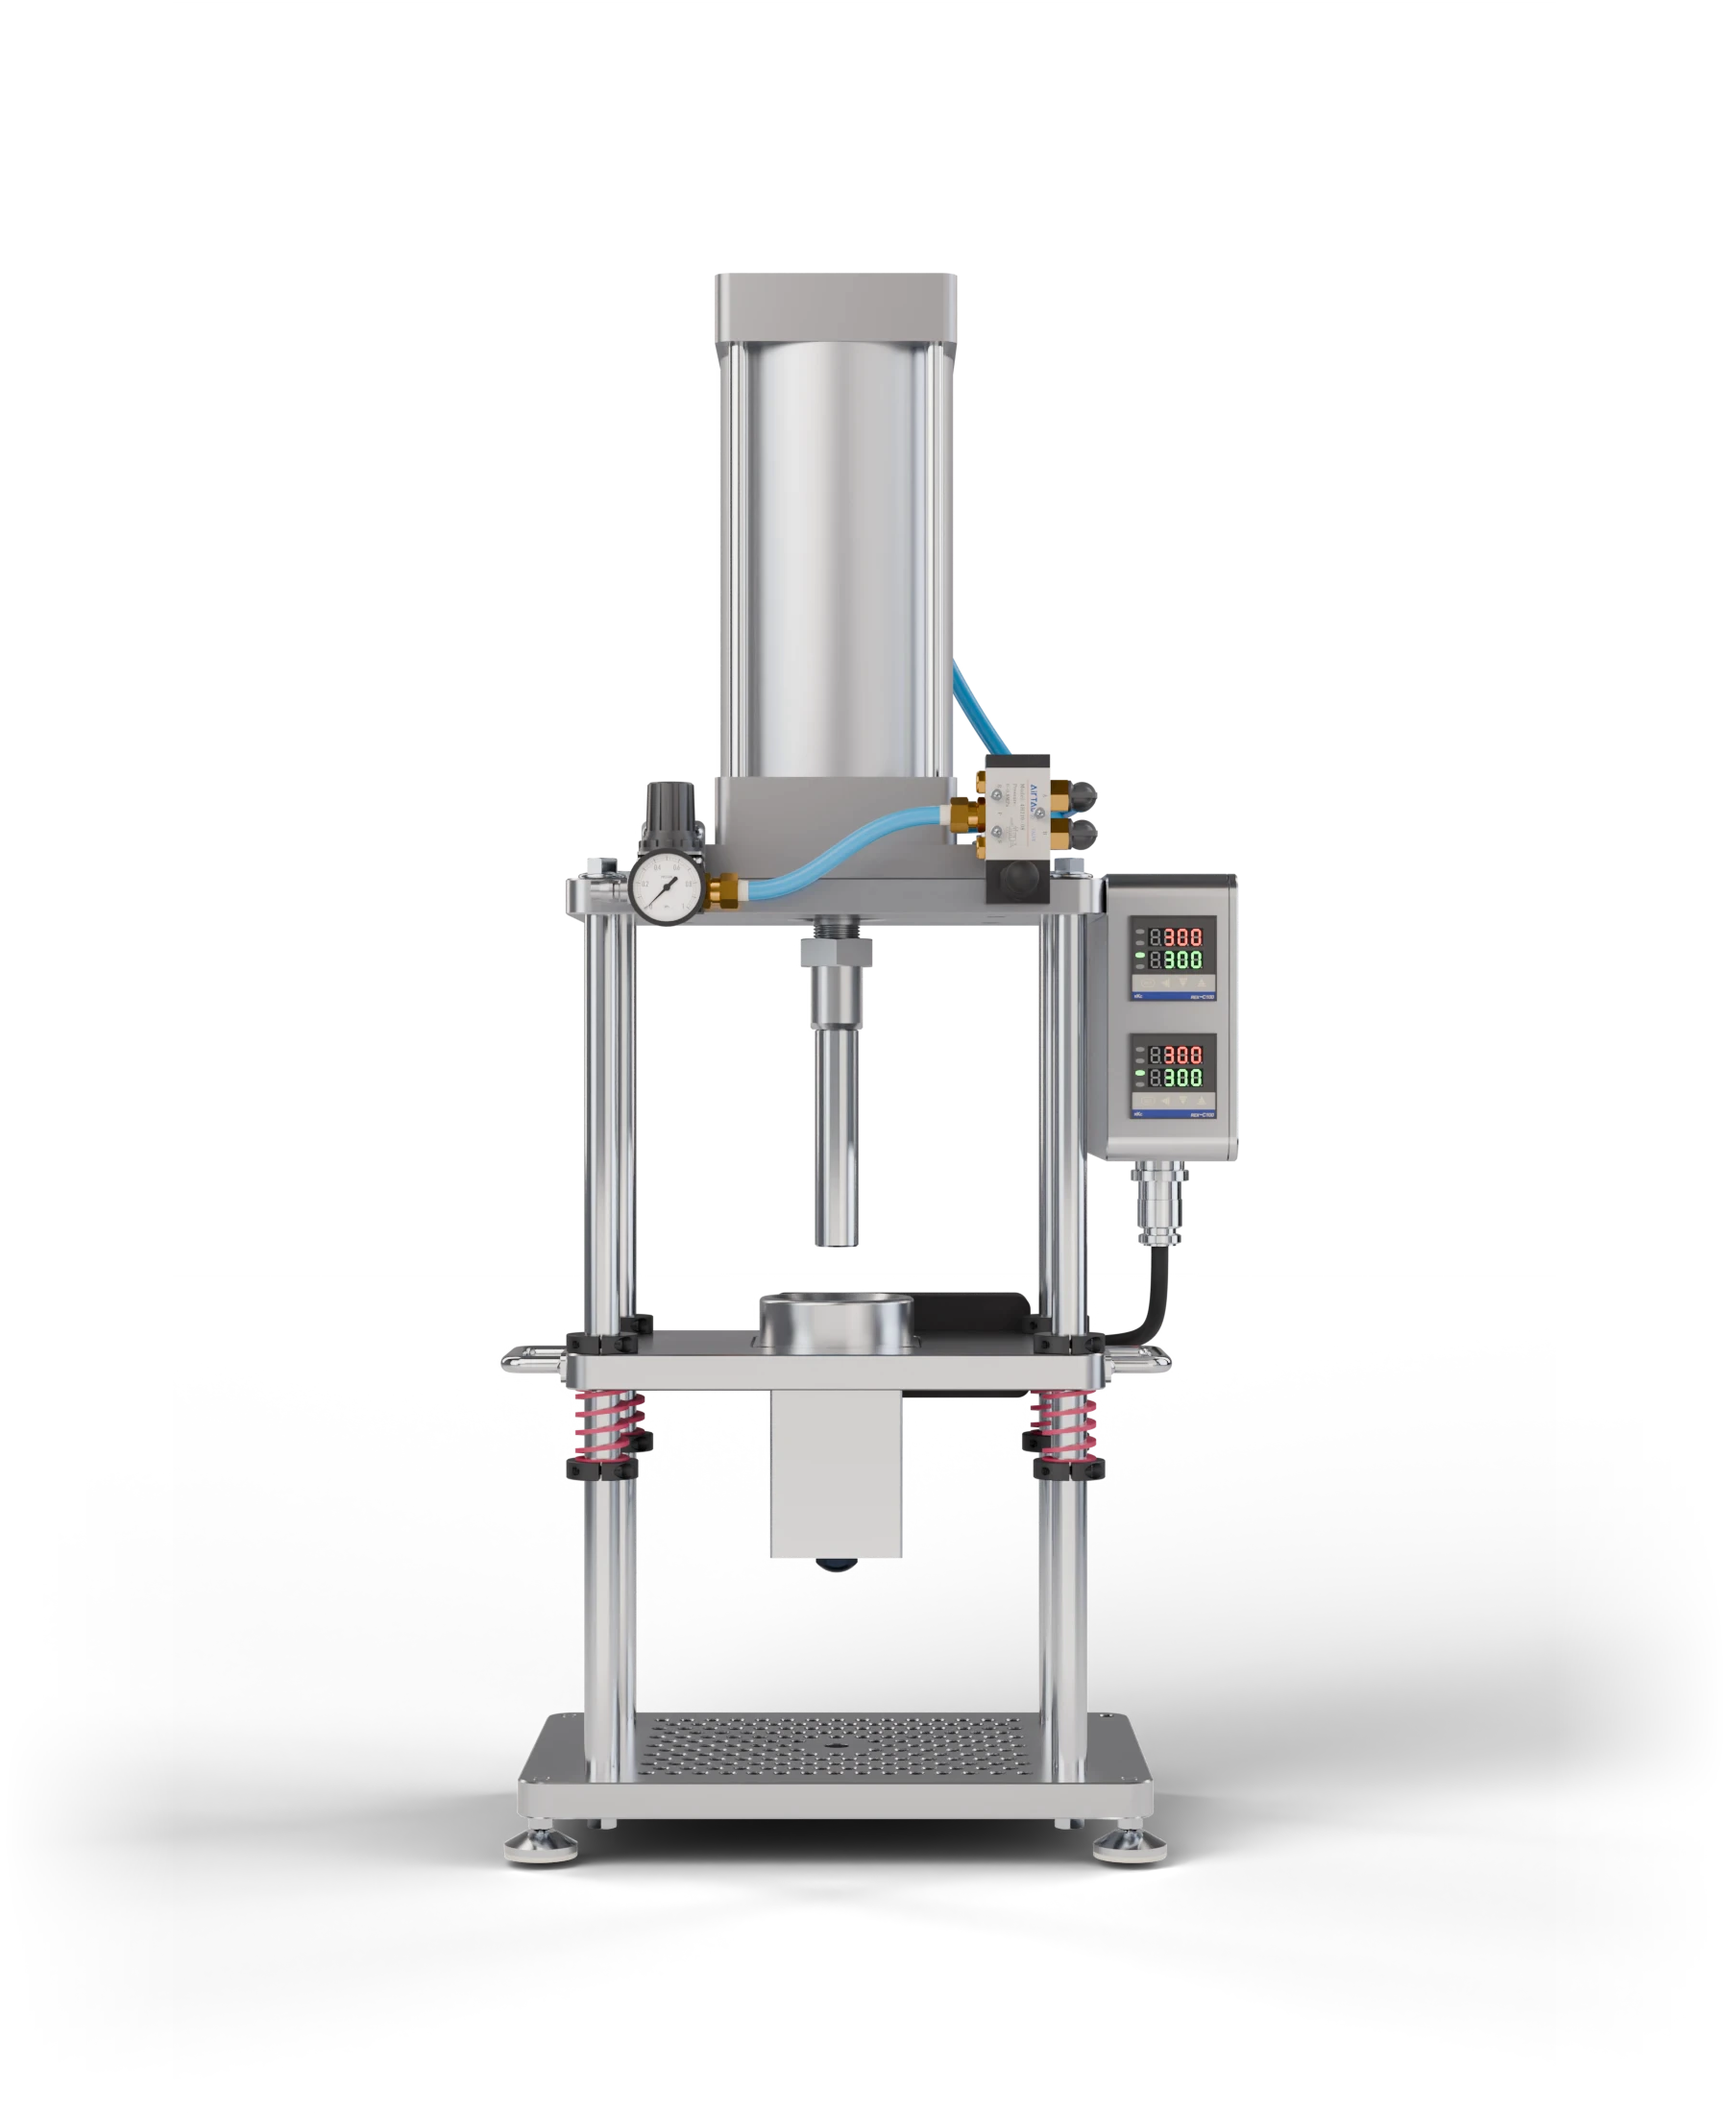
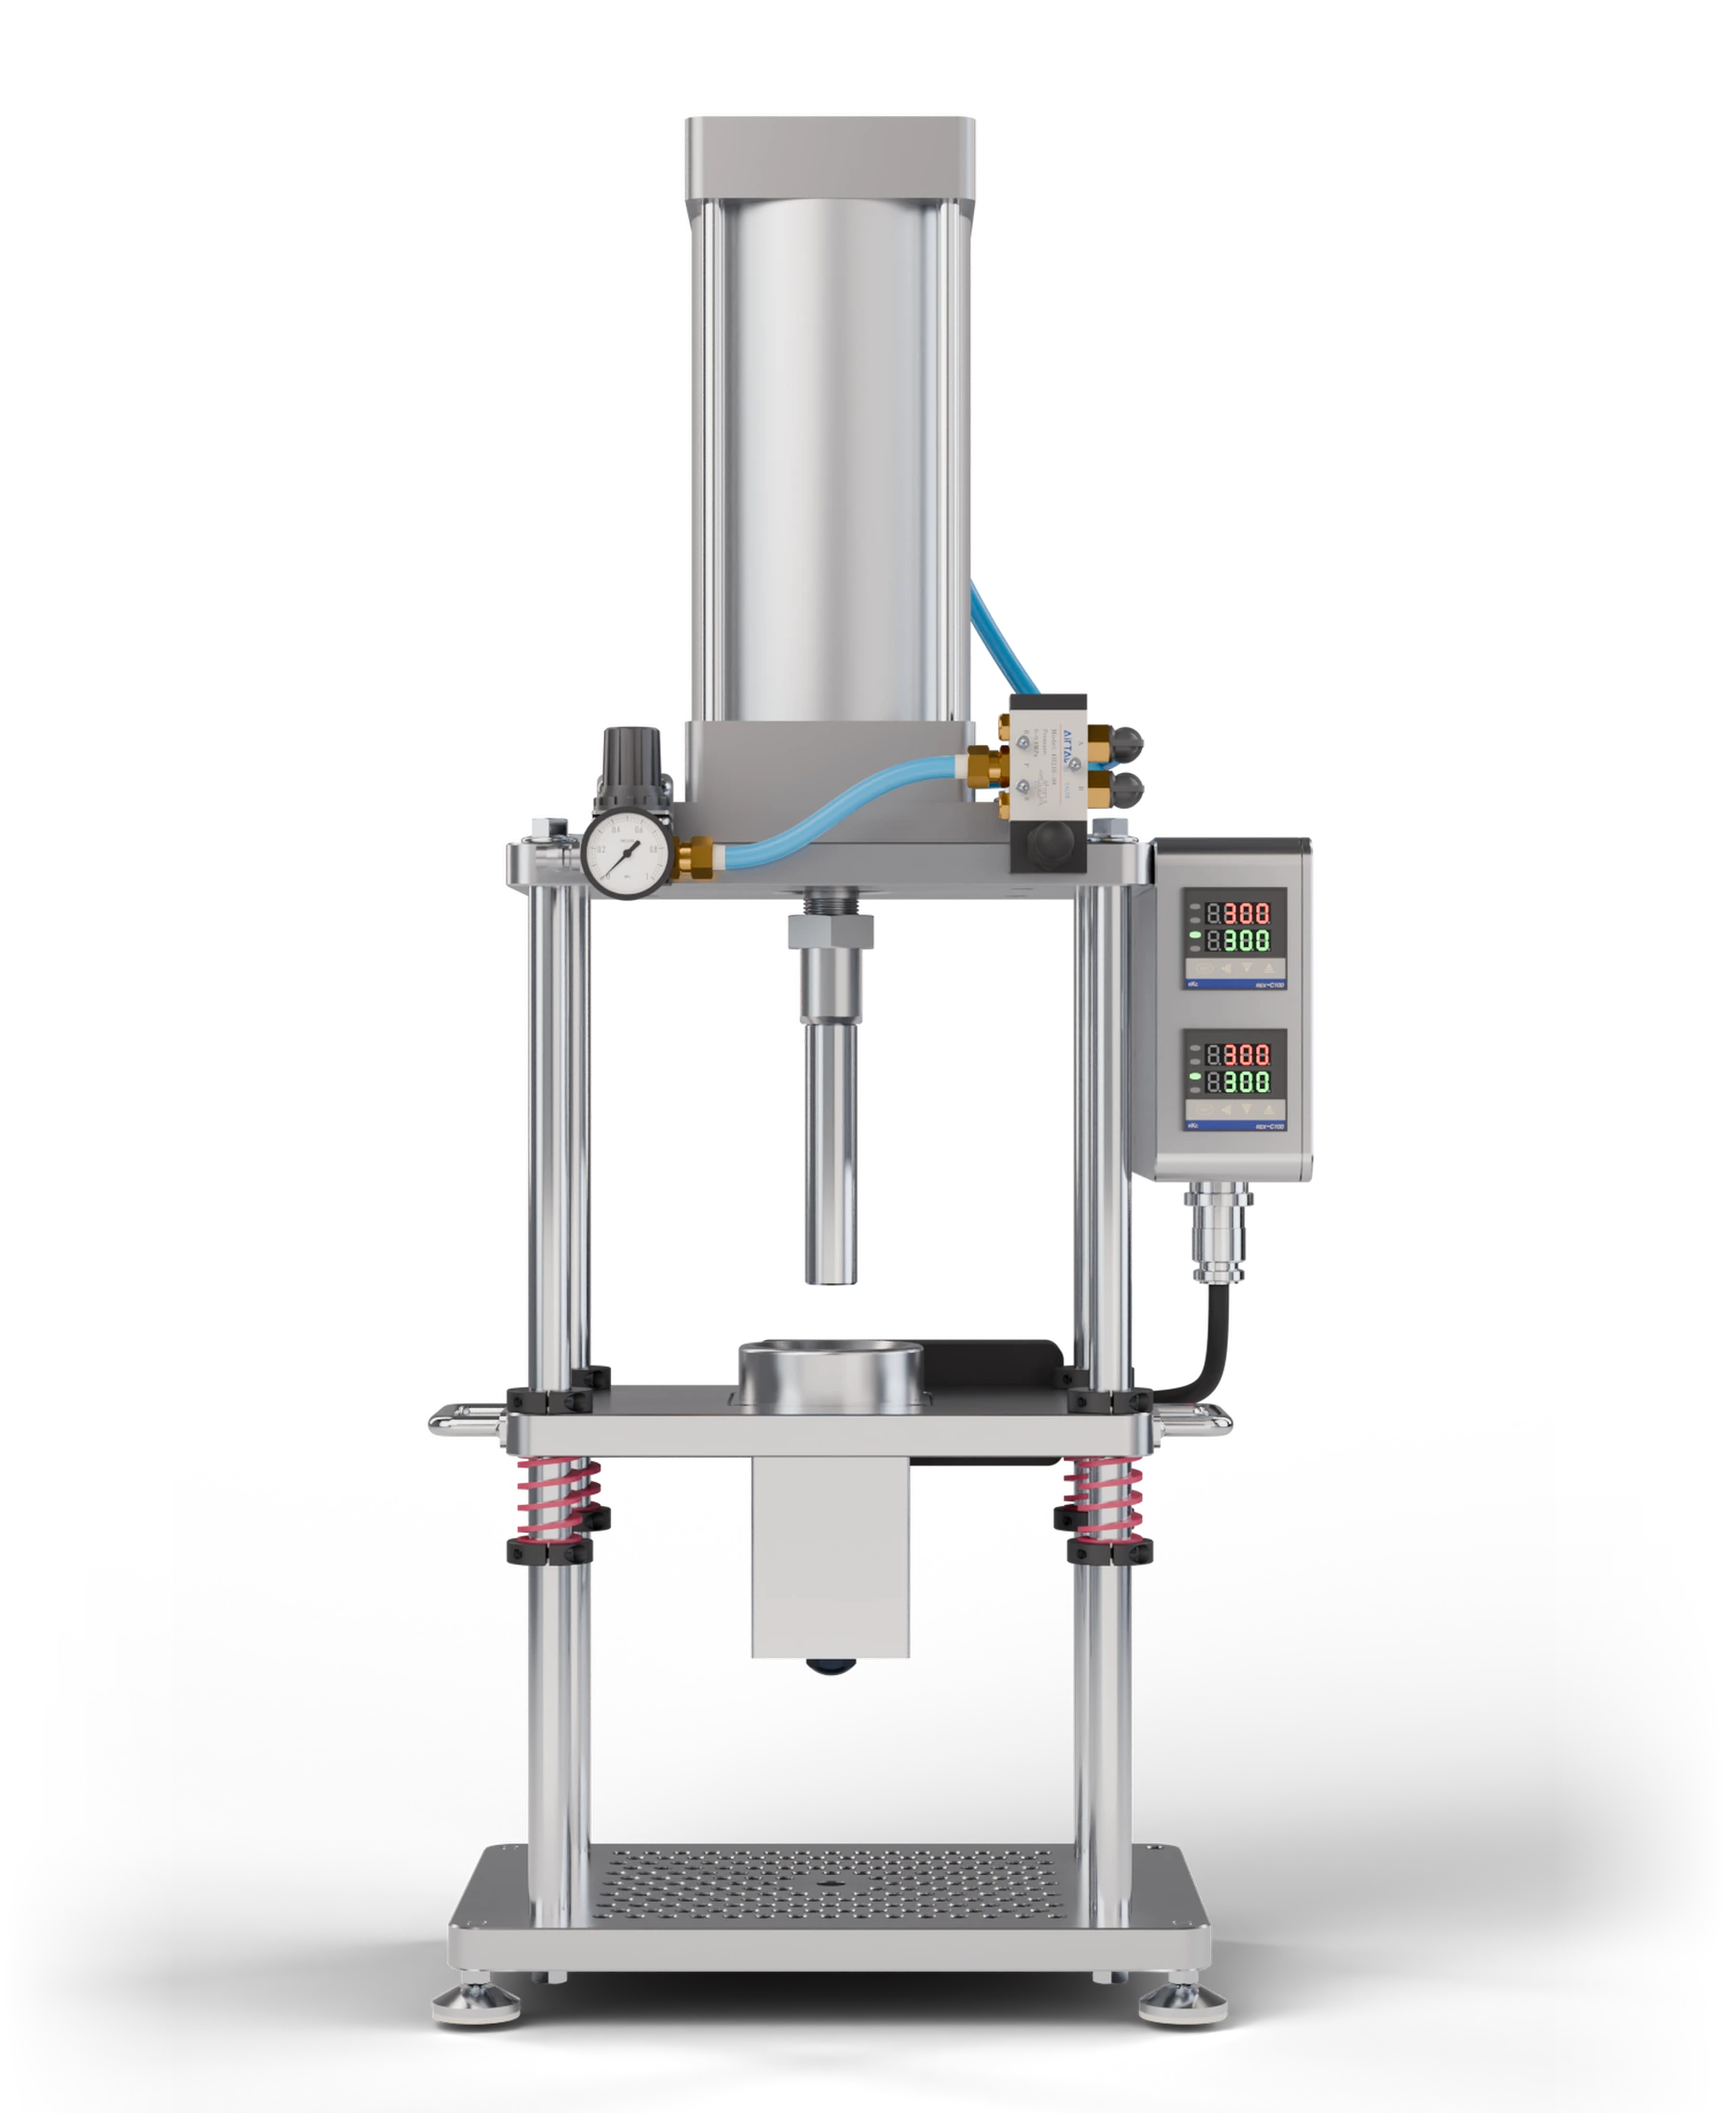
Prioritize machine in PIMM viewport hero

Changed region(s): [[0.0622, 0.0309, 0.9333, 0.9891]]

diff --git a/assets/maliev-pimm-machine.css b/assets/maliev-pimm-machine.css
@@ -33,7 +33,7 @@
 }
 
 body main .section-pimm-machine-product .pimm-machine h1 {
-  font-size: clamp(4.4rem, 4.25vw, 6rem) !important;
+  font-size: clamp(4.2rem, 3.8vw, 5.4rem) !important;
   font-weight: 650;
   letter-spacing: -0.035em;
   line-height: 0.94;
@@ -93,30 +93,31 @@ body main .section-pimm-machine-product .pimm-machine h1 {
 .pimm-machine__hero-console {
   align-items: center;
   display: grid;
-  gap: clamp(28px, 3vw, 48px);
+  gap: clamp(20px, 2.2vw, 32px);
   grid-template-columns: repeat(12, minmax(0, 1fr));
-  margin-top: clamp(32px, 5vw, 72px);
-  min-height: min(800px, calc(100svh - 88px));
+  height: 100svh;
+  margin-top: 0;
+  min-height: 720px;
   min-width: 0;
   overflow: visible;
-  padding-block: clamp(32px, 4vw, 64px);
+  padding-block: calc(68px + clamp(20px, 3vh, 32px)) clamp(20px, 3vh, 32px);
 }
 
 .pimm-machine__hero-decision {
   display: grid;
-  gap: 32px;
-  grid-column: 1 / 5;
+  gap: clamp(18px, 2.2vh, 28px);
+  grid-column: 1 / 4;
   min-width: 0;
 }
 
 .pimm-machine__hero-title-group {
   display: grid;
-  gap: 22px;
+  gap: clamp(12px, 1.8vh, 20px);
 }
 
 .pimm-machine__hero-promise {
   color: #111315;
-  font-size: clamp(2rem, 1.65vw, 2.4rem);
+  font-size: clamp(1.8rem, 1.45vw, 2.2rem);
   font-weight: 600;
   letter-spacing: -0.015em;
   line-height: 1.28;
@@ -124,7 +125,7 @@ body main .section-pimm-machine-product .pimm-machine h1 {
 }
 
 .pimm-machine__hero-fit {
-  font-size: 1.6rem;
+  font-size: 1.5rem;
   line-height: 1.55;
   max-width: 36ch;
 }
@@ -134,8 +135,8 @@ body main .section-pimm-machine-product .pimm-machine h1 {
   align-self: stretch;
   background: transparent;
   display: grid;
-  grid-column: 5 / 9;
-  min-height: 680px;
+  grid-column: 4 / 10;
+  min-height: 0;
   min-width: 0;
   overflow: visible;
 }
@@ -149,18 +150,17 @@ body main .section-pimm-machine-product .pimm-machine h1 {
 
 .pimm-machine__hero-stage img {
   height: 100%;
-  margin-inline: auto;
-  max-height: min(78vh, 780px);
-  object-fit: contain;
-  width: 124%;
+  margin-inline: -6%;
+  max-height: none;
   max-width: none;
-  margin-left: -12%;
+  object-fit: contain;
+  width: 112%;
 }
 
 .pimm-machine__hero-evidence {
   display: grid;
-  gap: 20px;
-  grid-column: 9 / -1;
+  gap: clamp(12px, 1.8vh, 20px);
+  grid-column: 10 / -1;
   min-width: 0;
 }
 
@@ -182,9 +182,9 @@ body main .section-pimm-machine-product .pimm-machine__hero-evidence > h2 {
   border-bottom: 1px solid #D9DDE1;
   display: grid;
   gap: 16px;
-  min-height: 112px;
+  min-height: clamp(84px, 11vh, 104px);
   min-width: 0;
-  padding-block: 18px;
+  padding-block: clamp(12px, 1.8vh, 18px);
 }
 
 .pimm-machine__hero-facts > div:nth-last-child(-n + 2) {
@@ -216,7 +216,7 @@ body main .section-pimm-machine-product .pimm-machine__hero-evidence > h2 {
   gap: 12px;
   min-height: 44px;
   overflow: hidden;
-  padding: 16px;
+  padding: 14px;
   text-decoration: none;
 }
 
@@ -226,7 +226,7 @@ body main .section-pimm-machine-product .pimm-machine__hero-evidence > h2 {
 }
 
 .pimm-machine__hero-detail figure {
-  aspect-ratio: 4 / 3;
+  aspect-ratio: 16 / 10;
   display: grid;
   overflow: hidden;
 }
@@ -242,9 +242,10 @@ body main .section-pimm-machine-product .pimm-machine__hero-evidence > h2 {
 }
 
 .pimm-machine__hero-actions {
-  align-items: flex-start;
+  align-items: center;
   display: flex;
-  flex-direction: column;
+  flex-direction: row;
+  flex-wrap: wrap;
   gap: 14px;
 }
 
@@ -616,45 +617,46 @@ body main .section-pimm-machine-product .pimm-machine__hero-evidence > h2 {
   padding: 32px 48px;
 }
 
-@media (max-width: 1199px) {
-  .pimm-machine {
-    padding-inline: 32px;
-  }
-
-  .pimm-machine__hero-console {
-    grid-template-columns: minmax(240px, 4fr) minmax(360px, 6fr);
-    gap: 40px;
-    min-height: auto;
+@media (min-width: 990px) and (max-height: 820px) {
+  body main .section-pimm-machine-product .pimm-machine h1 {
+    font-size: clamp(3.8rem, 3.6vw, 4.6rem) !important;
   }
 
   .pimm-machine__hero-decision {
-    grid-column: 1 / 2;
-    grid-row: 1;
+    gap: 14px;
   }
 
-  .pimm-machine__hero-stage {
-    grid-column: 2 / -1;
-    grid-row: 1;
-    min-height: 560px;
+  .pimm-machine__hero-title-group {
+    gap: 10px;
   }
 
-  .pimm-machine__hero-evidence {
-    display: grid;
-    grid-column: 1 / -1;
-    grid-row: 2;
-    grid-template-columns: minmax(0, 1fr) minmax(280px, 0.7fr);
+  .pimm-machine__hero-promise {
+    font-size: 1.8rem;
   }
 
-  .pimm-machine__hero-evidence > h2 {
-    grid-column: 1 / -1;
+  .pimm-machine__hero-fit {
+    font-size: 1.4rem;
+    line-height: 1.4;
   }
 
-  .pimm-machine__hero-facts {
-    grid-column: 1;
+  .pimm-machine__model-selector legend,
+  .pimm-machine__selected-model {
+    margin-bottom: 8px;
+  }
+
+  .pimm-machine__model-option {
+    min-height: 44px;
+    padding: 9px 12px;
   }
 
   .pimm-machine__hero-detail {
-    grid-column: 2;
+    padding: 10px 12px;
+  }
+}
+
+@media (max-width: 1199px) {
+  .pimm-machine {
+    padding-inline: 32px;
   }
 
   .pimm-machine__qualification-facts {
@@ -668,6 +670,79 @@ body main .section-pimm-machine-product .pimm-machine__hero-evidence > h2 {
 }
 
 @media (max-width: 989px) {
+  .pimm-machine__hero-console {
+    align-items: stretch;
+    gap: 16px 24px;
+    grid-template-rows: auto minmax(0, 1fr);
+    height: 100svh;
+    min-height: 900px;
+    padding-block: calc(60px + 24px) 24px;
+  }
+
+  .pimm-machine__hero-decision {
+    align-content: start;
+    gap: 18px;
+    grid-column: 1 / 6;
+    grid-row: 1;
+  }
+
+  .pimm-machine__hero-title-group {
+    gap: 12px;
+  }
+
+  body main .section-pimm-machine-product .pimm-machine h1 {
+    font-size: clamp(3.4rem, 5.4vw, 4.4rem) !important;
+  }
+
+  .pimm-machine__hero-promise {
+    font-size: 1.8rem;
+  }
+
+  .pimm-machine__hero-fit {
+    font-size: 1.4rem;
+    line-height: 1.45;
+  }
+
+  .pimm-machine__model-option {
+    min-height: 44px;
+    padding: 9px 12px;
+  }
+
+  .pimm-machine__hero-actions {
+    gap: 8px 14px;
+  }
+
+  .pimm-machine__hero-stage {
+    grid-column: 6 / -1;
+    grid-row: 1 / 3;
+    min-height: 0;
+  }
+
+  .pimm-machine__hero-stage img {
+    margin-inline: -8%;
+    width: 116%;
+  }
+
+  .pimm-machine__hero-evidence {
+    align-content: end;
+    gap: 12px;
+    grid-column: 1 / 6;
+    grid-row: 2;
+  }
+
+  body main .section-pimm-machine-product .pimm-machine__hero-evidence > h2 {
+    font-size: 1.8rem !important;
+  }
+
+  .pimm-machine__hero-facts > div {
+    min-height: 80px;
+    padding-block: 10px;
+  }
+
+  .pimm-machine__hero-detail {
+    display: none;
+  }
+
   .pimm-machine__tooling,
   .pimm-machine__purchase {
     grid-template-columns: minmax(0, 1fr);
@@ -724,10 +799,12 @@ body main .section-pimm-machine-product .pimm-machine__hero-evidence > h2 {
     display: flex;
     flex-direction: column;
     gap: 32px;
+    height: auto;
     margin-inline: 0;
-    margin-top: 20px;
+    margin-top: 0;
+    min-height: 100svh;
     overflow: visible;
-    padding-block: 24px 40px;
+    padding-block: calc(60px + 32px) 40px;
     padding-inline: 0;
   }
 
@@ -749,12 +826,13 @@ body main .section-pimm-machine-product .pimm-machine__hero-evidence > h2 {
 
   .pimm-machine__hero-stage {
     aspect-ratio: 9 / 11;
+    height: auto;
     min-height: 0;
     order: 3;
   }
 
   .pimm-machine__hero-stage img {
-    margin-left: -4%;
+    margin-inline: -4%;
     max-height: none;
     width: 108%;
   }
@@ -778,6 +856,10 @@ body main .section-pimm-machine-product .pimm-machine__hero-evidence > h2 {
   .pimm-machine__hero-facts,
   .pimm-machine__hero-detail {
     grid-column: 1;
+  }
+
+  .pimm-machine__hero-detail {
+    display: grid;
   }
 
   .pimm-machine__hero-facts {

diff --git a/assets/maliev-chrome.css b/assets/maliev-chrome.css
@@ -1000,7 +1000,7 @@
    only the foreground tone; open surfaces and the post-presentation state stay solid. */
 .mc-header--overlay {
   background: transparent;
-  border-bottom-color: transparent;
+  border-bottom: 0;
   left: 0;
   position: fixed;
   right: 0;
@@ -1019,7 +1019,7 @@
 .mc-header--overlay:has(.mc-localization[open]),
 .mc-header--overlay:has(.mc-mobile-menu[open]) {
   background: var(--maliev-surface);
-  border-bottom-color: var(--maliev-rule);
+  border-bottom: 0.1rem solid var(--maliev-rule);
   color: var(--maliev-ink);
 }
 
